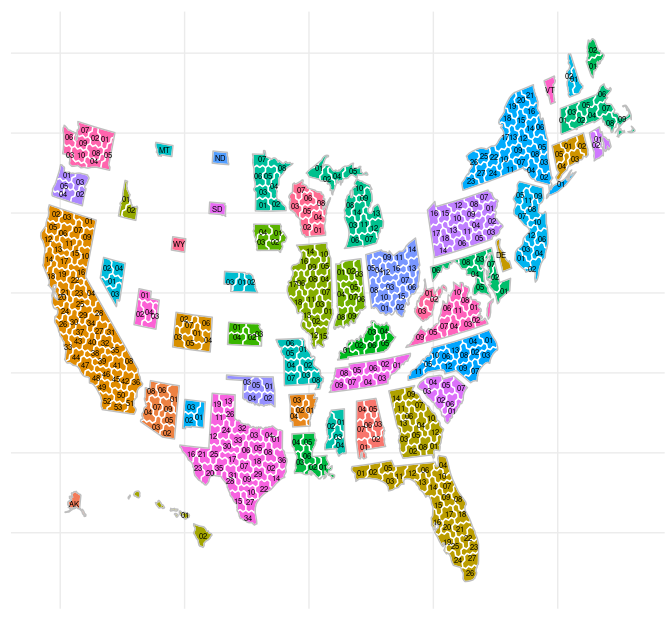
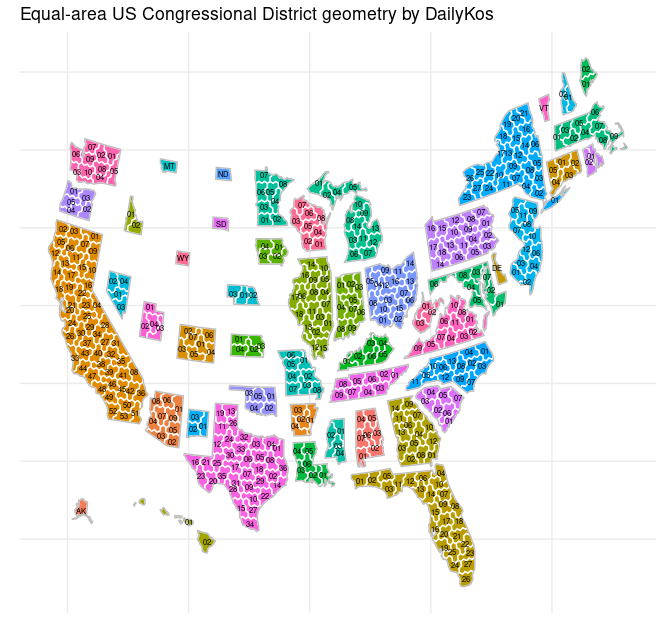
re

diff --git a/README.md b/README.md
@@ -146,7 +146,7 @@ uspols::uspols_medsl_house %>%
 </tbody>
 </table>
 
-<br>
+------------------------------------------------------------------------
 
 ### § DailyKos: Presidential returns by congressional district (2008-)
 
@@ -166,7 +166,7 @@ uspols::uspols_dk_pres %>%
 |  2012| AL            | 01             | Mitt Romney  | republican | 37.4     | 61.8       |
 |  2016| AL            | 01             | Donald Trump | republican | 34.1     | 63.5       |
 
-<br>
+------------------------------------------------------------------------
 
 ### § Wikipedia: Presidential returns by state (1864-)
 
@@ -186,7 +186,7 @@ uspols::uspols_wiki_pres %>%
 |  1864| IL            | statewide      | Abraham Lincoln     | republican |     45.60|       54.40|
 |  1864| IN            | statewide      | Abraham Lincoln     | republican |     46.50|       53.50|
 
-<br>
+------------------------------------------------------------------------
 
 ### § Lawmaker Twitter handles: Congresses 115 & 116
 
@@ -299,15 +299,16 @@ uspols::uspols_twitter_handles %>% head() %>% knitr::kable()
 </tbody>
 </table>
 
-<br>
+------------------------------------------------------------------------
 
 ### § Geometries: DailyKos
 
 [Link](https://docs.google.com/spreadsheets/d/1LrBXlqrtSZwyYOkpEEXFwQggvtR0bHHTxs9kq4kjOjw/edit#gid=1250379179).
 
+#### Congressional districts
+
 ``` r
 library(sf)
-
 uspols::sf_HexCDv21 %>%
   ggplot() + 
   geom_sf(aes(fill = state),
@@ -327,12 +328,36 @@ uspols::sf_HexCDv21 %>%
         axis.text.y=element_blank(),
         axis.title.x=element_blank(),
         axis.title.y=element_blank(),
-        legend.position = 'none')   
+        legend.position = 'none') +
+labs(title = "Equal-area US Congressional District geometry by DailyKos")
 ```
 
 ![](figure-markdown_github/unnamed-chunk-8-1.png)
 
+#### States twice –
+
 ``` r
-# labs(title = "2016 Trump Margins by Congressional District",
-#        caption = 'Source: Daily Kos')
+uspols::sf_TileOutv10 %>% 
+  ggplot() + 
+  geom_sf(aes(fill = state),
+           color = 'white') +
+  geom_sf(data = uspols::sf_TileInv10, 
+          fill = NA, 
+          show.legend = F, 
+          color="gray", 
+          lwd=.5) +
+  ggsflabel::geom_sf_text(data = uspols::sf_TileInv10,
+                          aes(label = state_abbrev), 
+                          size = 3,
+                          color='black') +
+  # scale_fill_distiller(palette = "RdBu", direction=-1) +
+  theme_minimal()+
+  theme(axis.text.x=element_blank(),
+        axis.text.y=element_blank(),
+        axis.title.x=element_blank(),
+        axis.title.y=element_blank(),
+        legend.position = 'none') +
+labs(title = "Equal-area US State geometry by DailyKos")
 ```
+
+![](figure-markdown_github/unnamed-chunk-9-1.png)
